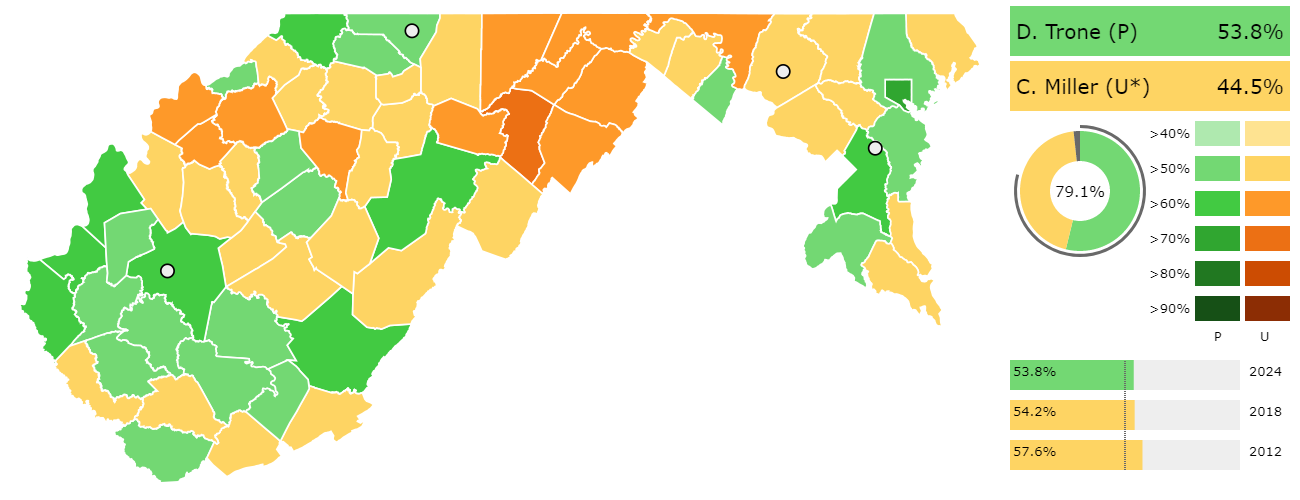
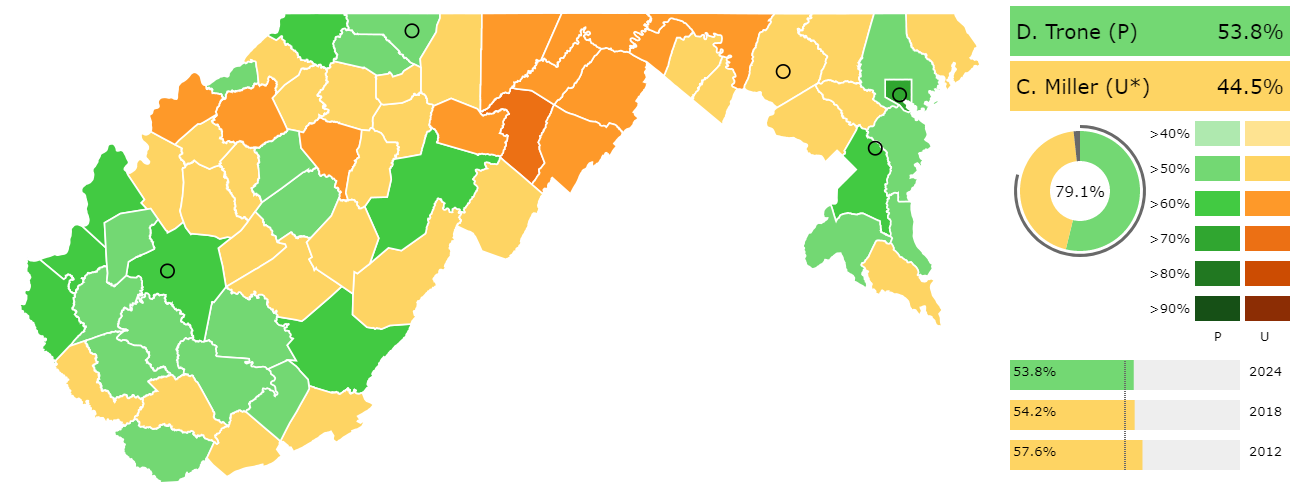
Made cities transparent, added Baltimore, changed up counties slightly.

diff --git a/main.py b/main.py
@@ -131,7 +131,7 @@ class ChoroplethMap:
         fig.add_trace(go.Scattergeo(
             lon=data["lon"],
             lat=data["lat"],
-            marker=dict(color="#EEEEEE",
+            marker=dict(color="rgba(0, 0, 0, 0)",
                         size=4,
                         opacity=1,
                         line=dict(
